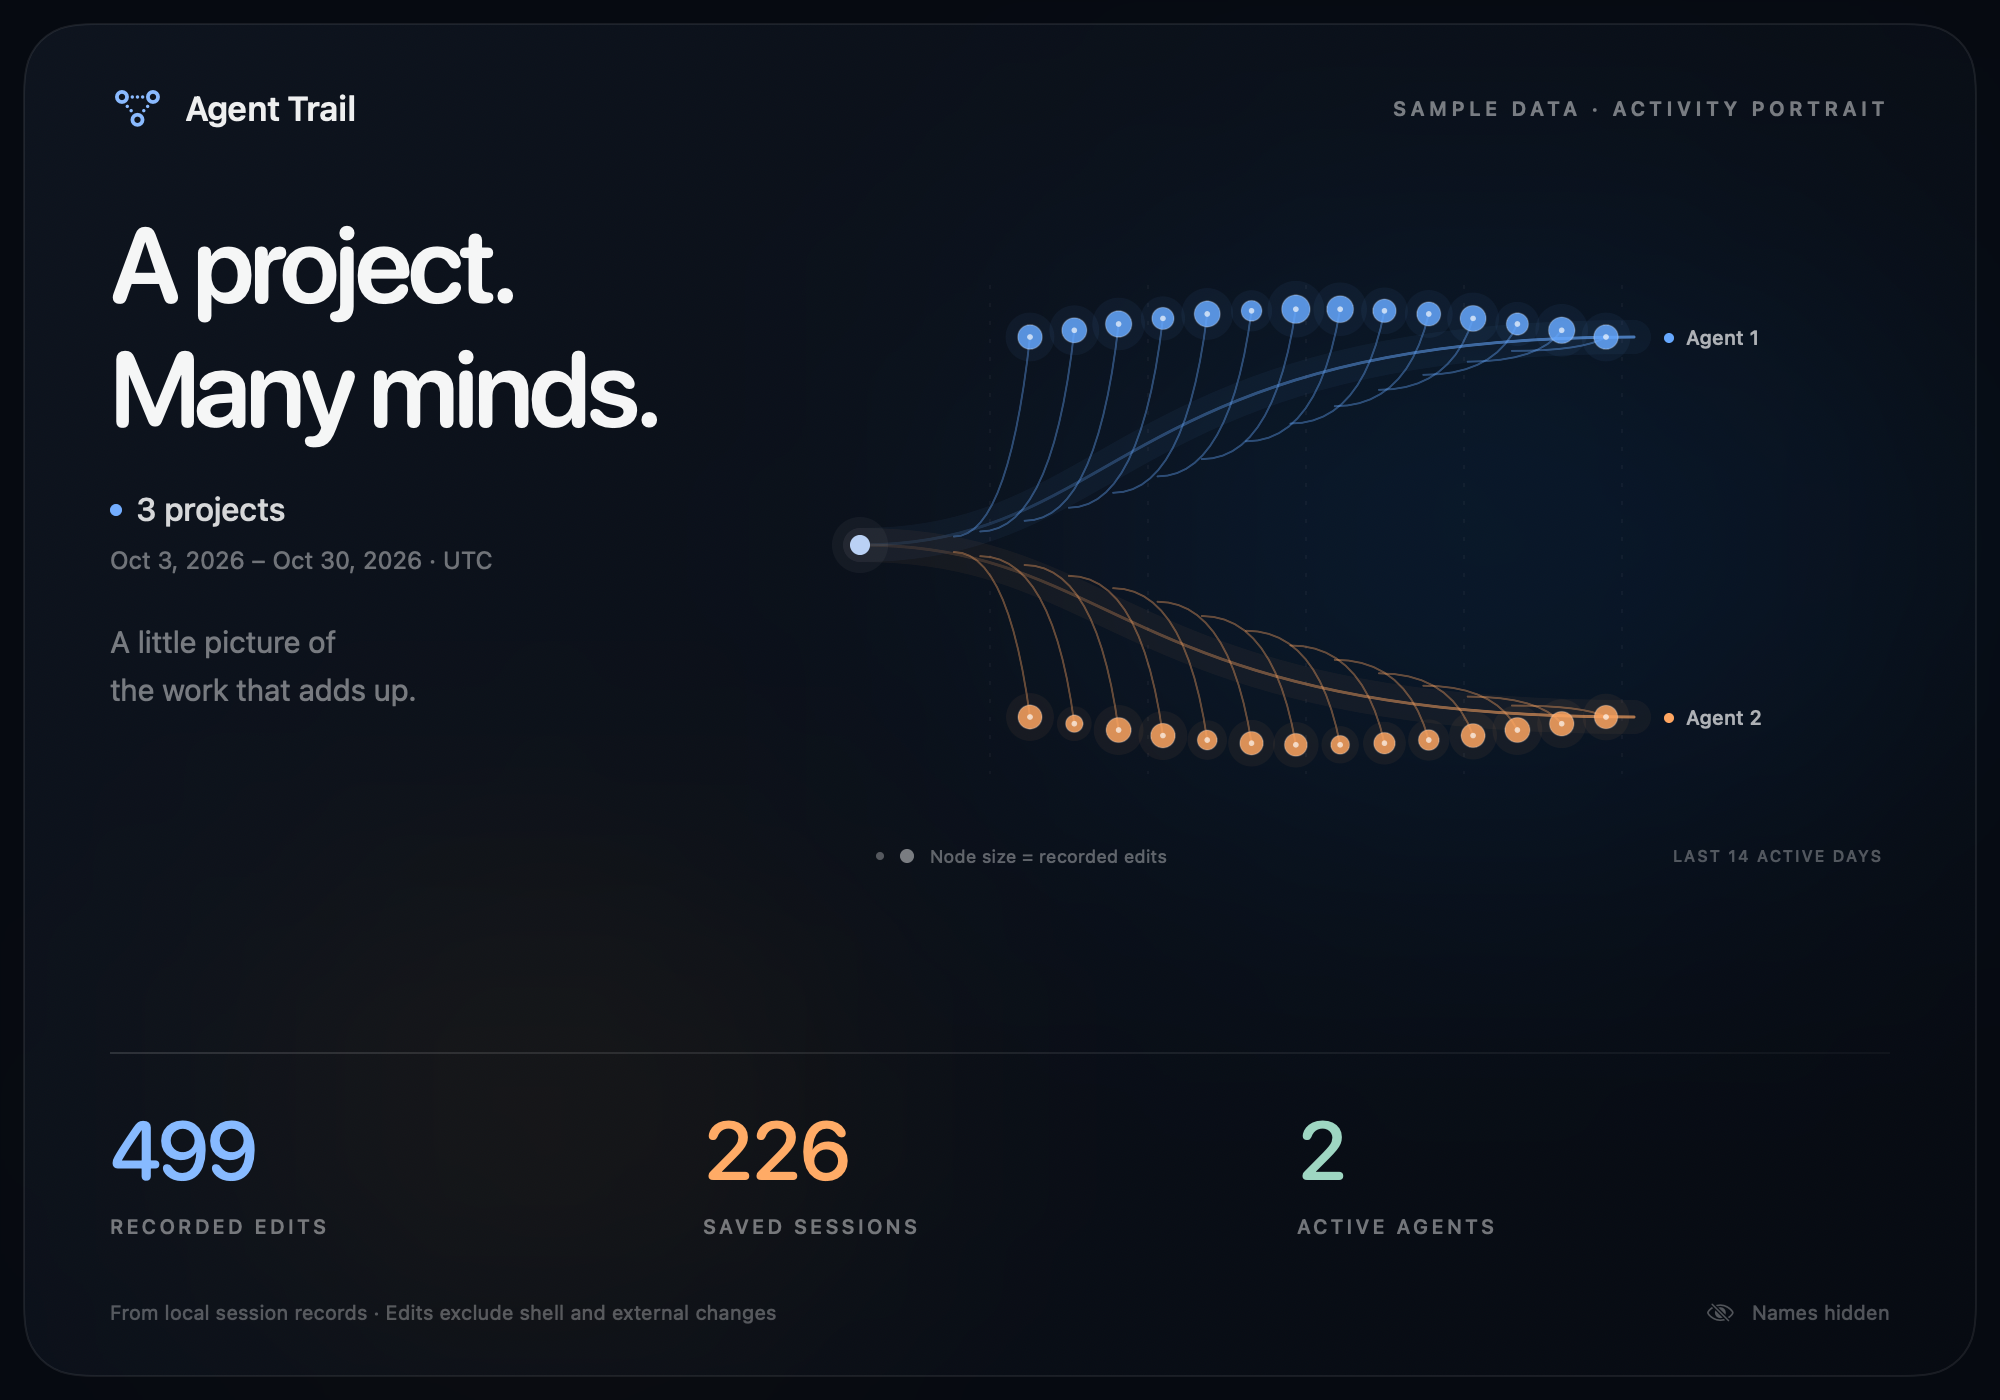
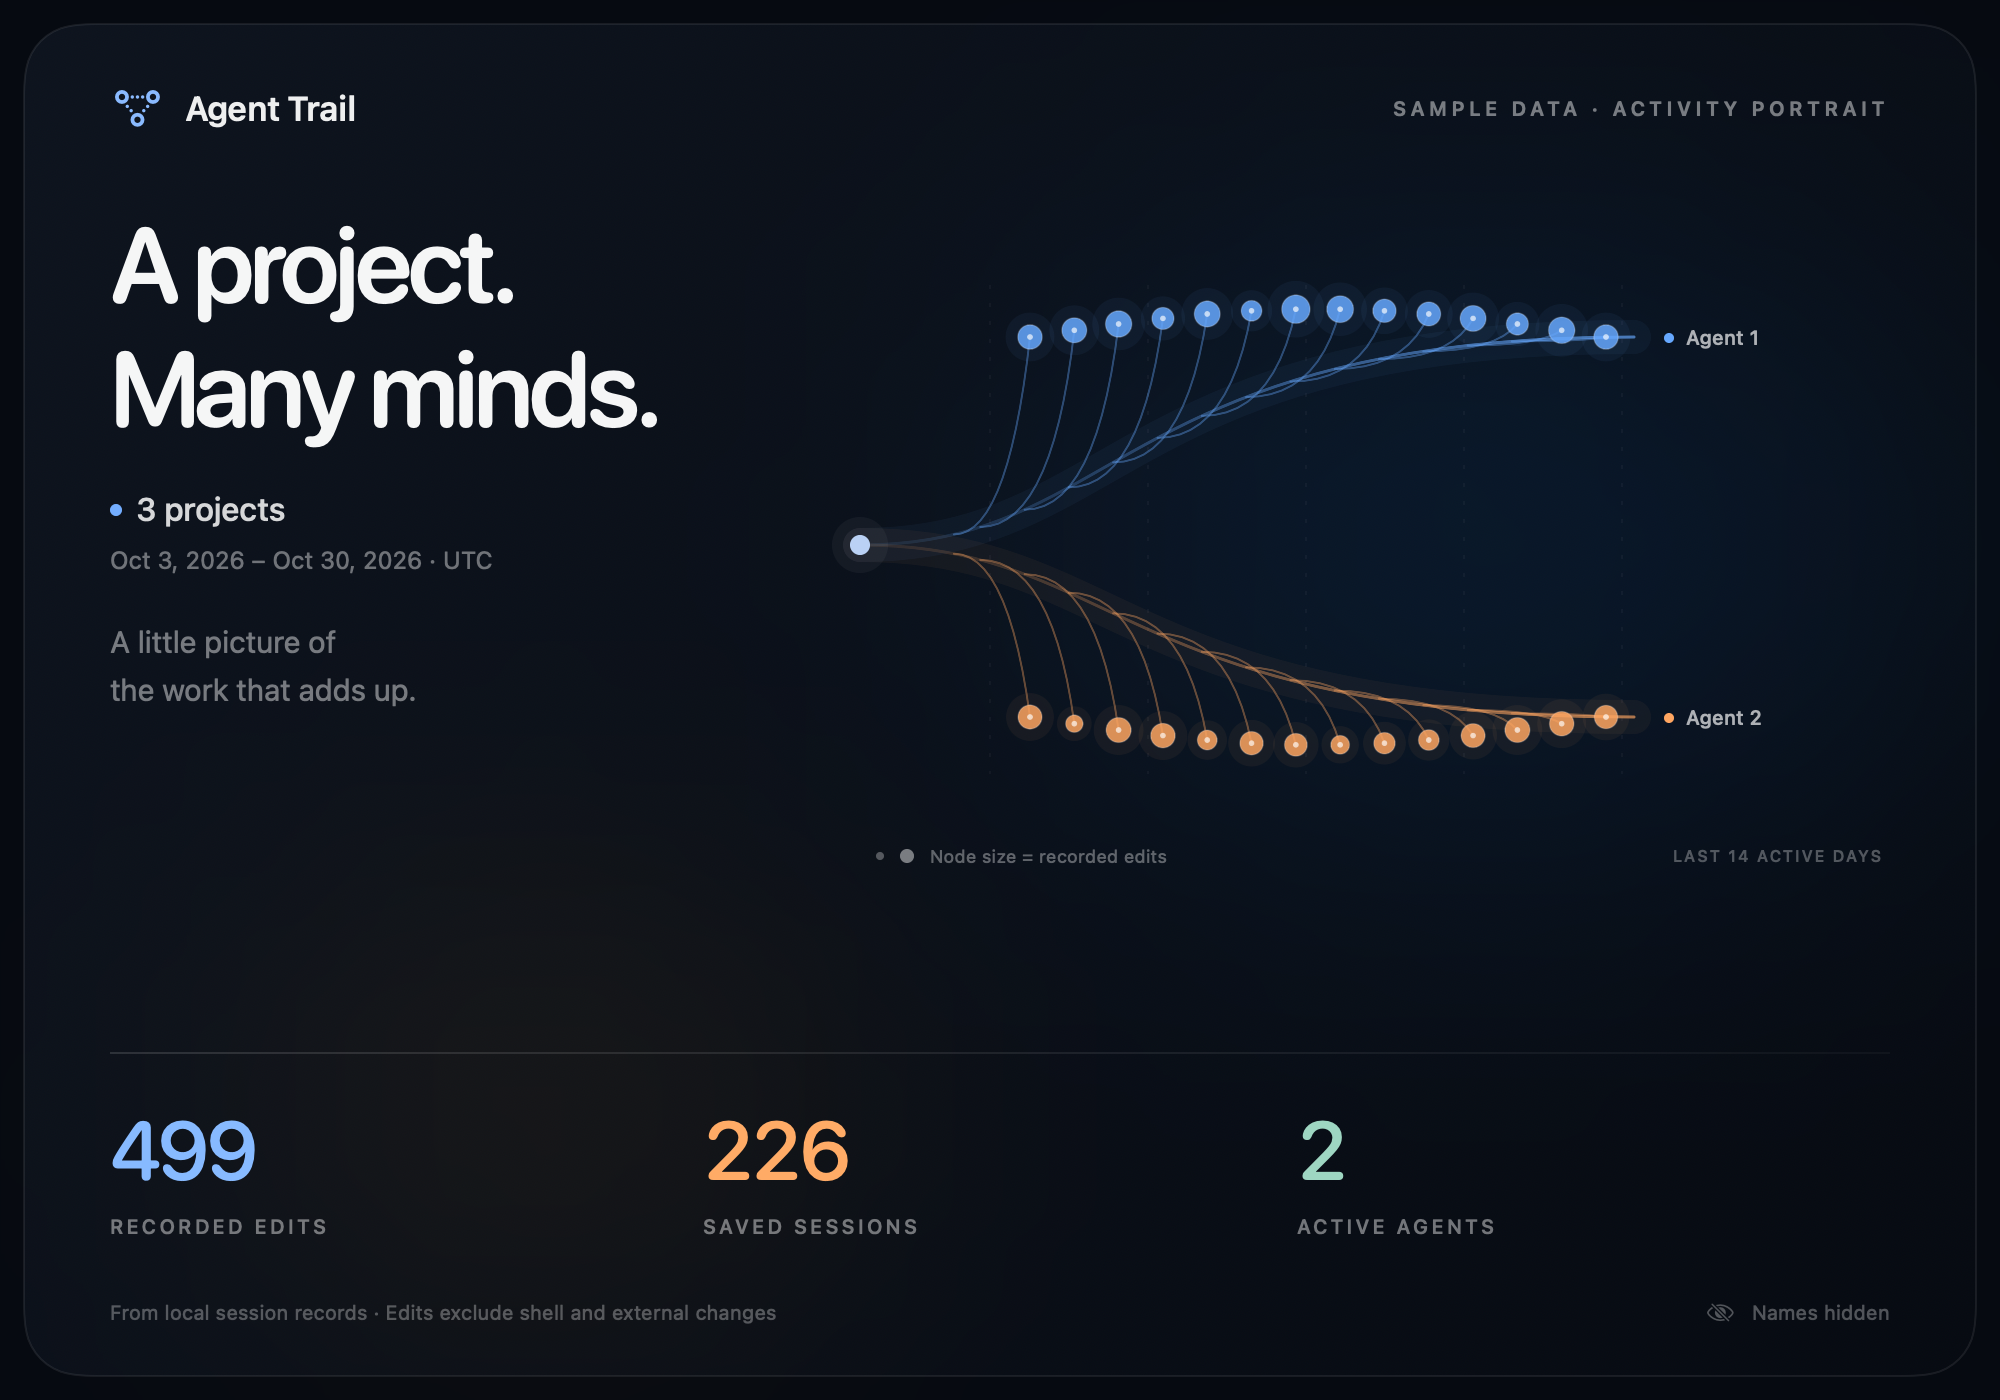
Polish share-card branches and make growth window resizable

diff --git a/Sources/AgentTrail/ActivityShareCard.swift b/Sources/AgentTrail/ActivityShareCard.swift
@@ -337,7 +337,16 @@ private struct ActivityPortraitTree: View {
     }
 
     private func interpolatedY(x: CGFloat, target: CGFloat) -> CGFloat {
-        let progress = min(1, max(0, (x - 25) / 387))
+        // Find the actual cubic trunk point at x so every twig stays attached.
+        var lower: CGFloat = 0
+        var upper: CGFloat = 1
+        for _ in 0..<24 {
+            let t = (lower + upper) / 2
+            let u = 1 - t
+            let curveX = u * u * u * 25 + 3 * u * u * t * 155 + 3 * u * t * t * 155 + t * t * t * 412
+            if curveX < x { lower = t } else { upper = t }
+        }
+        let progress = (lower + upper) / 2
         let smooth = progress * progress * (3 - 2 * progress)
         return 149 + (target - 149) * smooth
     }

diff --git a/Sources/AgentTrail/AgentTrailApp.swift b/Sources/AgentTrail/AgentTrailApp.swift
@@ -142,7 +142,7 @@ private final class AgentTrailApplicationDelegate: NSObject, NSApplicationDelega
         guard let store else { return }
         popover?.performClose(nil)
         let window = activityWindow ?? NSWindow(contentRect: NSRect(x: 0, y: 0, width: 920, height: 720),
-            styleMask: [.titled, .closable, .miniaturizable], backing: .buffered, defer: false)
+            styleMask: [.titled, .closable, .miniaturizable, .resizable], backing: .buffered, defer: false)
         if activityWindow == nil {
             window.title = "Agent Trail · Project growth"
             window.isReleasedWhenClosed = false
